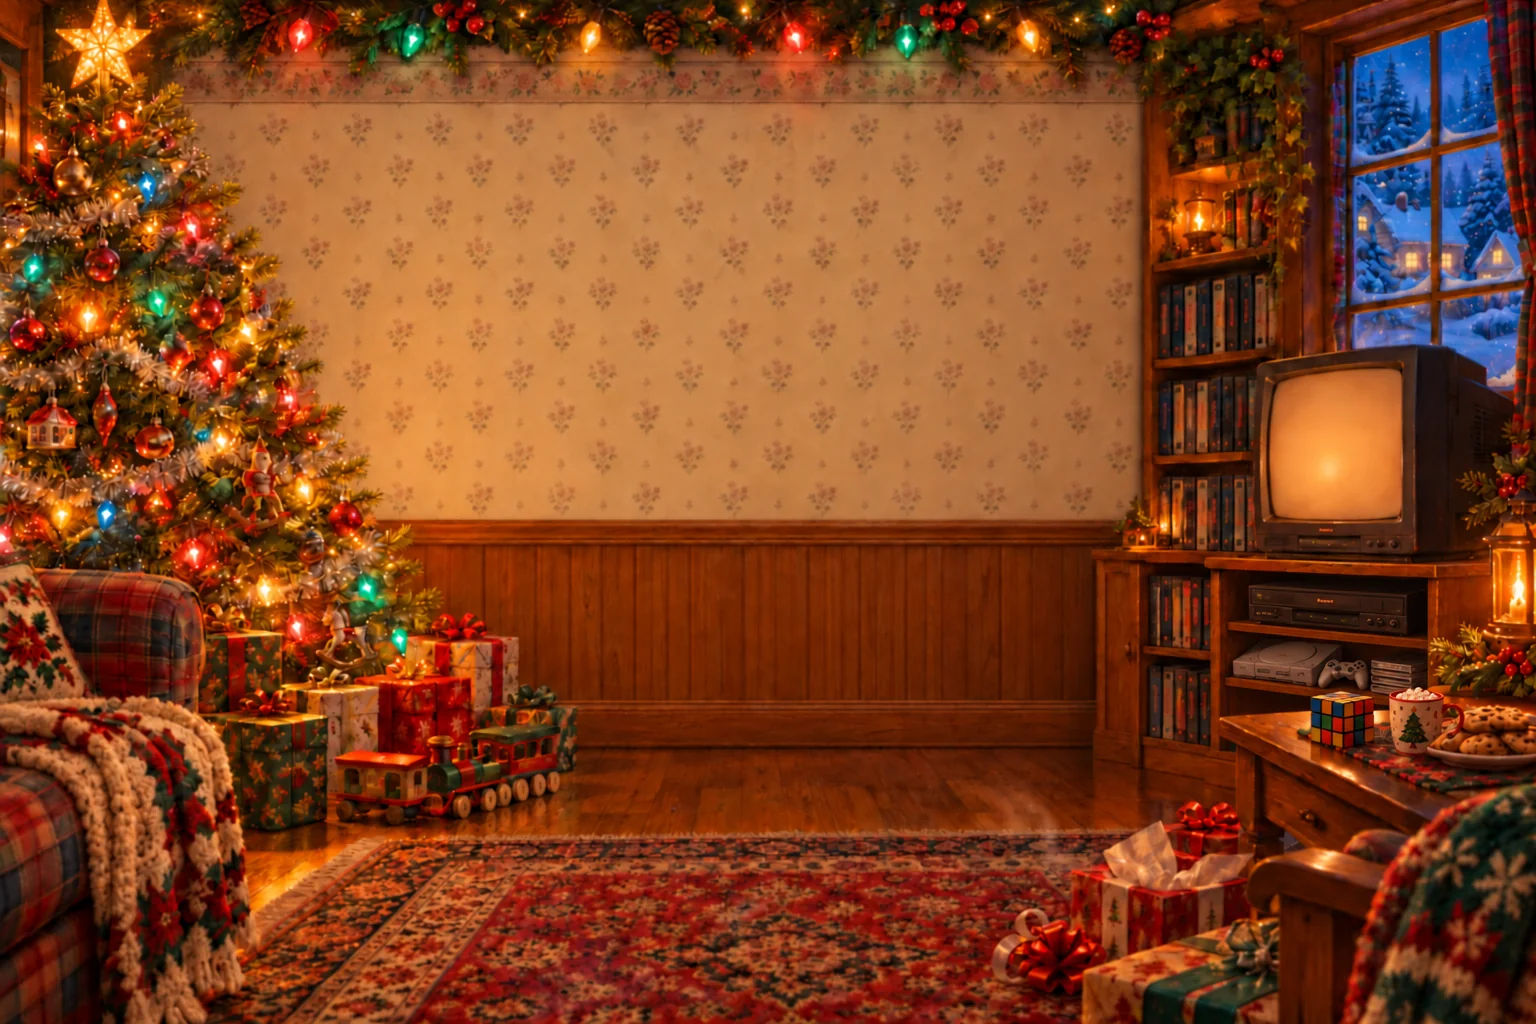
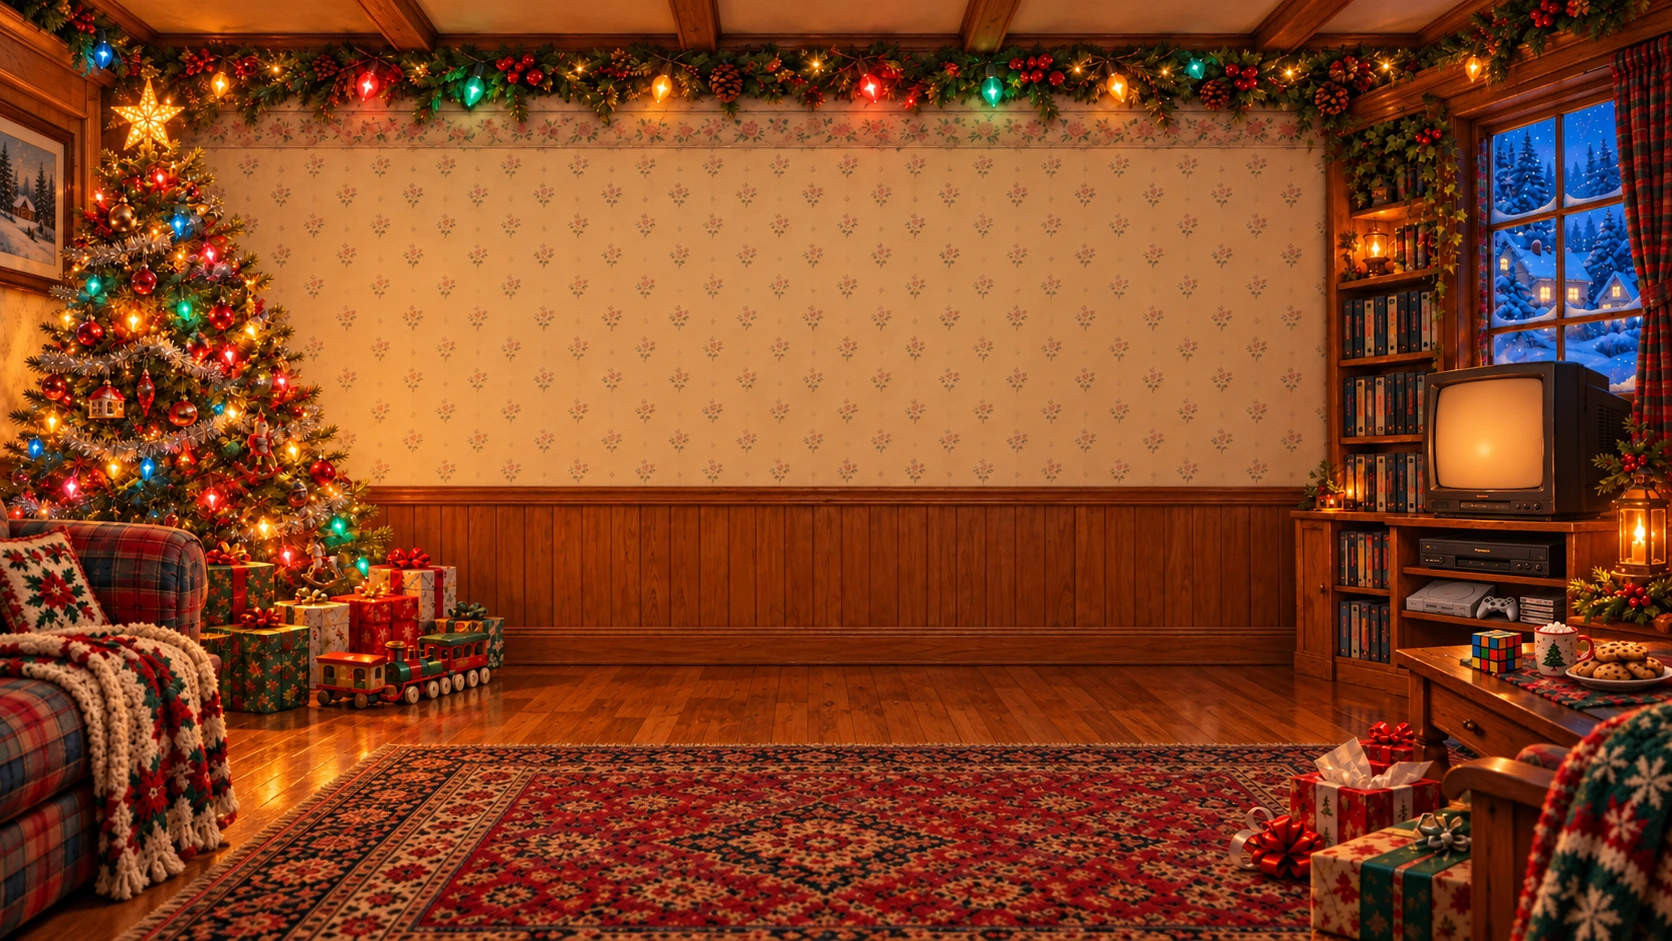
Refine Christmas room framing and add navigation lights

diff --git a/app/styles/themes/christmas-96.css b/app/styles/themes/christmas-96.css
@@ -1,7 +1,7 @@
 /* Christmas '96: wallpaper, oak trim and incandescent light around tactile TV controls. */
 :root[data-ttv-theme="christmas-96-living-room"],
 :root[data-ttv-theme="christmas-96-living-room"] .ttv-layout-classic-cable {
-  --christmas-ribbon: repeating-linear-gradient(120deg, #822b3a 0 12px, #f6e4bb 12px 15px, #24503b 15px 27px, #f6e4bb 27px 30px);
+  --christmas-light-string: url("/themes/christmas-96-light-string.svg");
   --christmas-brass: linear-gradient(110deg, #b9894e, #f8dfa4 40%, #d4ae6b 70%, #b9894e);
   --ttv-radius-shell: 1rem;
   --ttv-radius-panel: .85rem;
@@ -75,13 +75,22 @@
   border-color: #b58d56;
   box-shadow: inset 0 1px #fff0ca26, 0 8px 25px #16090466;
 }
-:root[data-ttv-theme="christmas-96-living-room"] .ttv-premium-topbar::after {
+/* Steady incandescent bulbs sit in their own strip, clear of labels and controls. */
+:root[data-ttv-theme="christmas-96-living-room"] .ttv-premium-topbar { padding-bottom: 1.5rem; }
+:root[data-ttv-theme="christmas-96-living-room"] .ttv-guide-dialog-header { padding-bottom: 2rem; }
+:root[data-ttv-theme="christmas-96-living-room"] :is(.ttv-premium-topbar, .ttv-guide-dialog-header)::after,
+:root[data-ttv-theme="christmas-96-living-room"] .ttv-mobile-viewer-nav::before {
   content: "";
   position: absolute;
-  inset: auto 0 -2px;
-  height: 3px;
-  background: var(--christmas-ribbon);
+  inset: auto 0 0;
+  height: 28px;
+  background: var(--christmas-light-string) center top / 240px 28px repeat-x;
   pointer-events: none;
+}
+:root[data-ttv-theme="christmas-96-living-room"] .ttv-mobile-viewer-nav::before {
+  inset: -15px 0 auto;
+  height: 23px;
+  background-size: 200px 23px;
 }
 :root[data-ttv-theme="christmas-96-living-room"] :is(.ttv-premium-player-frame, .ttv-guide-shell) {
   border-color: #d0a469;
@@ -137,7 +146,6 @@
   box-shadow: inset 0 3px #d3ae6c, 0 24px 80px #180b07b3;
 }
 :root[data-ttv-theme="christmas-96-living-room"] .ttv-premium-footer { padding: 1rem; background: #142a23f5; border-color: #b5915b; border-radius: .85rem; }
-.ttv-christmas96-preview-art { object-fit: contain; background: #24170f; }
 :root[data-ttv-theme="christmas-96-living-room"] .ttv-christmas96-brand {
   display: grid;
   align-content: center;
@@ -152,13 +160,14 @@
 .ttv-christmas96-brand__name { font: italic 700 clamp(1.6rem, 3vw, 2.2rem)/1 Georgia, serif; white-space: nowrap; }
 .ttv-christmas96-brand__name b { color: #f1ca83; font-style: normal; }
 .ttv-christmas96-brand__edition { font: 700 .65rem/1.3 ui-monospace, monospace; letter-spacing: .14em; text-transform: uppercase; }
-@media (max-width: 760px) and (orientation: portrait) {
+@media (orientation: portrait) {
   .ttv-christmas96-art { object-position: center bottom; }
   .ttv-christmas96-tv-glow { right: -3%; top: 44%; width: 30%; height: 20%; }
   .ttv-christmas96-snow { right: 1%; top: 11%; width: 12%; height: 27%; }
   .ttv-christmas96-lights i:nth-child(even) { display: none; }
 }
 @media (forced-colors: active) {
-  :root[data-ttv-theme="christmas-96-living-room"] .ttv-premium-topbar::after { display: none; }
+  :root[data-ttv-theme="christmas-96-living-room"] :is(.ttv-premium-topbar, .ttv-guide-dialog-header)::after,
+  :root[data-ttv-theme="christmas-96-living-room"] .ttv-mobile-viewer-nav::before { display: none; }
   :root[data-ttv-theme="christmas-96-living-room"] :is(.ttv-premium-player-frame, .ttv-guide-shell, .ttv-section-heading, .ttv-library-intro) { border-color: CanvasText; box-shadow: none; }
 }

diff --git a/components/themes/Christmas96Scene.tsx b/components/themes/Christmas96Scene.tsx
@@ -4,7 +4,9 @@ import { getImageProps } from "next/image";
 import desktopWorld from "@/public/themes/christmas-96-world.webp";
 import mobileWorld from "@/public/themes/christmas-96-mobile.webp";
 
-const common = { alt: "", sizes: "100vw", loading: "eager" as const };
+// These WebP assets are already encoded for delivery. Avoid another lossy pass
+// through the image optimizer on the fine wallpaper, tinsel and game cases.
+const common = { alt: "", loading: "eager" as const, unoptimized: true };
 const { props: desktop } = getImageProps({ ...common, src: desktopWorld });
 const { props: mobile } = getImageProps({ ...common, src: mobileWorld });
 
@@ -13,8 +15,8 @@ export default function Christmas96Scene() {
   return (
     <div className="ttv-seasonal-world ttv-christmas96-world" aria-hidden="true">
       <picture>
-        <source media="(max-width: 760px) and (orientation: portrait)" srcSet={mobile.srcSet} sizes={mobile.sizes} />
-        {/* Art-directed Next.js sources keep the Christmas details visible on phones. */}
+        <source media="(orientation: portrait)" srcSet={mobile.src} />
+        {/* A portrait composition keeps the room visible on phones and tablets. */}
         <img {...desktop} alt="" className="ttv-christmas96-art" />
       </picture>
       <div className="ttv-christmas96-scrim" />

diff --git a/tests/viewer.browser.ts b/tests/viewer.browser.ts
@@ -354,7 +354,9 @@ test("every theme applies, keeps readable surfaces and respects reduced motion",
       expect(layout.y).toBe(0);
       expect(Math.abs(layout.width - layout.viewportWidth)).toBeLessThanOrEqual(1);
       expect(Math.abs(layout.height - layout.viewportHeight)).toBeLessThanOrEqual(1);
-      const portrait = await page.evaluate(() => matchMedia("(max-width: 760px) and (orientation: portrait)").matches);
+      const portrait = await page.evaluate((christmas) => matchMedia(christmas
+        ? "(orientation: portrait)"
+        : "(max-width: 760px) and (orientation: portrait)").matches, christmas);
       const imageName = `${christmas ? "christmas-96" : afterDark ? "halloween-after-dark" : nineties ? "halloween-90s" : "haunted-arcade"}-${portrait ? "mobile" : "world"}`;
       await expect.poll(() => world.locator("img").evaluate((image: HTMLImageElement, name) =>
         image.complete && image.naturalWidth > 0 && image.currentSrc.includes(name), imageName,

diff --git a/components/themes/themePreviews.ts b/components/themes/themePreviews.ts
@@ -17,7 +17,7 @@ import electricBlue from "@/public/themes/previews/electric-blue-live.webp";
 // Seasonal scenery and screenshots of the real guide with sample programming.
 // A complete map makes a missing preview a type error when adding a new theme.
 export const THEME_PREVIEWS = {
-  "christmas-96-living-room": { image: christmas96, className: "ttv-christmas96-preview-art" },
+  "christmas-96-living-room": { image: christmas96 },
   "halloween-90s-night": { image: halloween95, className: "ttv-halloween90-preview-art" },
   "halloween-night": { image: afterDark, className: "ttv-afterdark-preview-art" },
   "halloween-haunted-arcade": { image: hauntedArcade, className: "ttv-haunted-preview-art" },

diff --git a/docs/art/christmas-96-prompts.md b/docs/art/christmas-96-prompts.md
@@ -1,13 +1,14 @@
 # Christmas '96: Living Room — artwork
 
-Original artwork and edits made with the built-in image-generation tool. The owner approved the final landscape image on October 25, 2026. Its pixels match the selected image exactly before WebP encoding. The portrait is a separate composition of the same room.
+Original artwork and edits made with the built-in image-generation tool. The owner approved the original landscape image on October 25, 2026, then requested a sharper, less zoomed-in background on October 26. The current landscape reframes that same room for a widescreen display. The portrait remains the separately composed original room and now applies to portrait tablets as well as phones.
 
 Project assets:
 
-- `public/themes/christmas-96-world.webp`: 1536 × 1024, 223,410 bytes.
+- `public/themes/christmas-96-world.webp`: 1672 × 941, 456,380 bytes; WebP quality 92, without upscaling.
 - `public/themes/christmas-96-mobile.webp`: 768 × 1152, 162,960 bytes.
+- `public/themes/christmas-96-light-string.svg`: reusable code-drawn vintage bulbs and wire for the navigation and guide headers.
 
-Sharp performs only resizing and WebP encoding; visual edits are generated. The theme preview reuses the landscape artwork. No source PNGs, discarded variants, personal data or browser screenshots are shipped.
+Sharp performs only resizing and WebP encoding; visual edits are generated. The full-screen scene serves the pre-encoded WebP directly through hashed static imports to avoid a second lossy optimization pass. The theme preview reuses the landscape artwork with the same edge-to-edge crop as other theme cards. No source PNGs, discarded variants, personal data or browser screenshots are shipped.
 
 The scene includes the requested floral wallpaper, oak trim, Christmas tree, lights, CRT and VCR, PS1 and game cases, Rubik's Cube, gifts and cocoa. Decorations sit behind the interface and never cover programme video or capture pointer input. Only opacity and transforms animate; shared seasonal CSS disables motion and hides decoration in forced-colour mode.
 
@@ -83,3 +84,12 @@ Keep the wallpaper, trim, Christmas tree, lamps, garland, CRT, window, gifts, tr
 Use case: precise-object-edit
 Image 1 is the PORTRAIT edit target. Image 2 is a supporting reference for the small additions only.
 Add a short stack of 3-4 thin original PlayStation CD jewel game cases beside the grey PS1 on its existing lower cabinet shelf, and add one small 3x3 Rubik's Cube on the coffee table near the existing cocoa mug. Match the CD cases and cube arrangement shown in image 2, fitted naturally into the narrower portrait room. Preserve the existing black VCR on its upper shelf, grey PS1/controller on lower shelf, cocoa mug, cookies, tree, wallpaper, trim and ALL other details of image 1. Do not replace or remove anything. No composition changes or resizing/cropping; keep 1024x1536 portrait. Match the original hand-painted warm golden lighting and realistic scale. Cube has nine squares per visible face, black grid. Game cases are thin clear plastic square CD jewel cases, not VHS. No new text, captions or interface.
+
+### 10 — Widescreen framing and detail (October 26)
+
+Use case: compositing
+Asset type: Production widescreen background artwork for the existing Christmas '96 Living Room website theme.
+Input image 1 is the EXACT approved room and must remain recognizably the same. Reframe this scene as a wider, pulled-back 16:9 landscape at 3840x2160 if supported. The current 3:2 image is cropped and looks too close on desktop. Make the tree, CRT cabinet and foreground furnishings about 20% smaller within the overall frame, keeping them at the far left/right edges. Reveal more of the complete room, garland across the top and hardwood/rug below, using consistent natural perspective. The broad central area must remain empty cream floral wallpaper and oak wainscoting for website content. Sharp, finely resolved traditional illustration, no soft-focus, no haze, no blur, no excessive bloom.
+Preserve the precise warm 1996 Christmas art direction, original cream rose-and-sage floral wallpaper, oak chair rail and wood panels, red plaid sofa and crochet blanket, tree with star, tinsel and vintage red/green/blue/amber bulbs, presents and wooden toy train. Preserve the snowy night window, existing CRT television with amber screen, black VCR on upper shelf, grey full-size original PS1 with wired controller and thin game CD jewel cases on lower shelf. Preserve the physically correct 3x3 Rubik's Cube, marshmallow cocoa mug and cookie plate on the coffee table. Preserve the small scale of these personal details, not foreground hero props. No new furnishings, no people, no text, no UI, no logos, no missing or replaced objects. Fill the whole 16:9 canvas edge to edge; no borders or letterboxing. This is a framing and resolution improvement, not a redesign.
+
+The built-in tool returned 1672 × 941, not the requested 3840 × 2160. This native output is shipped without artificial enlargement.
